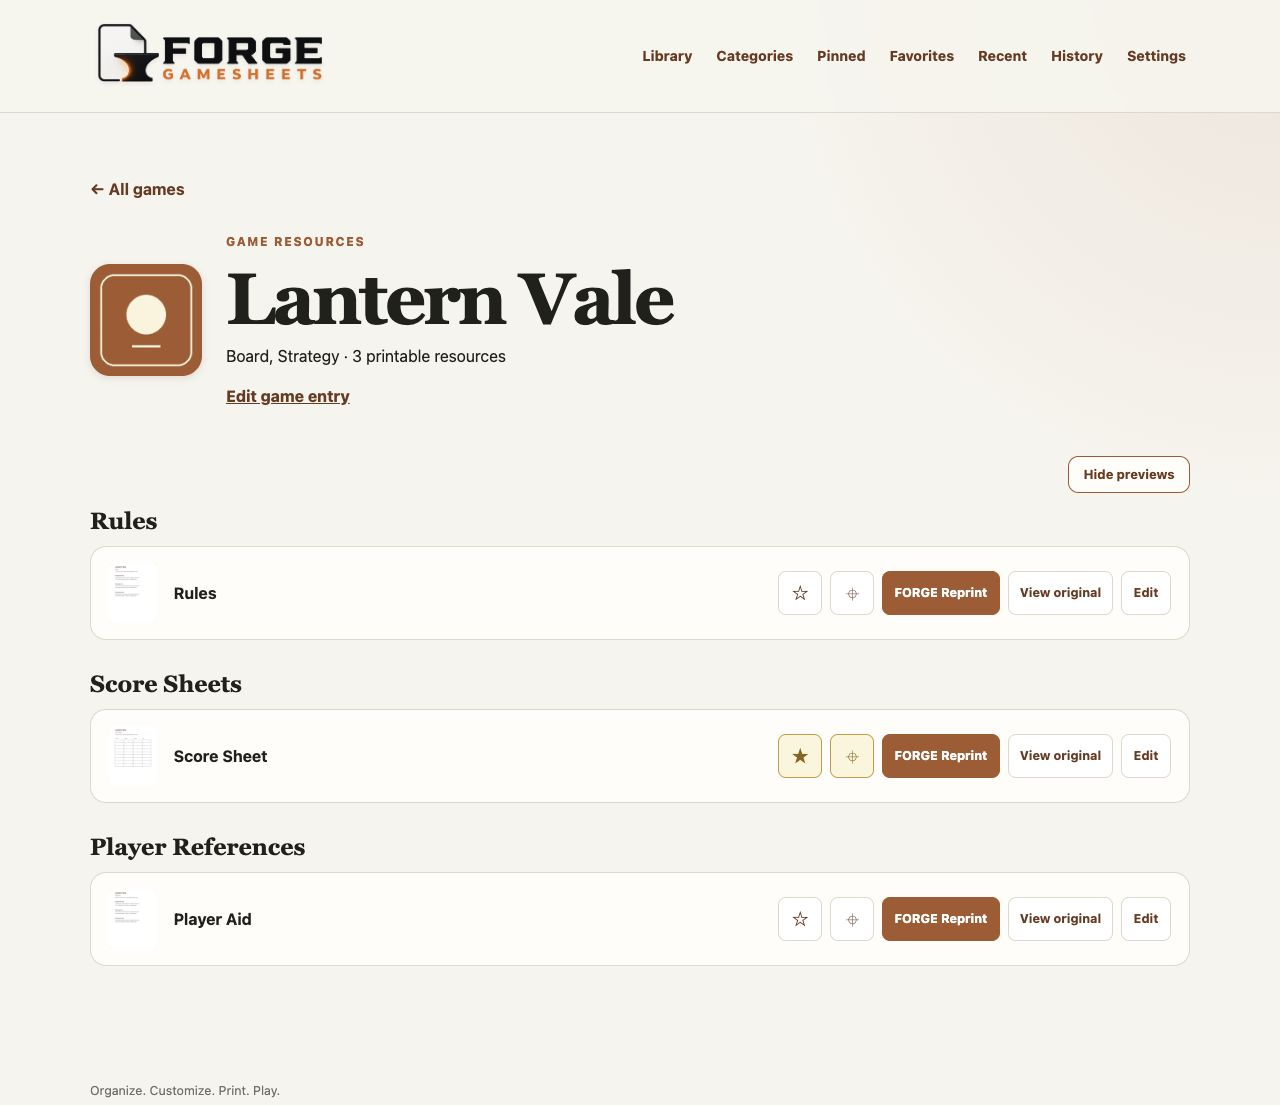
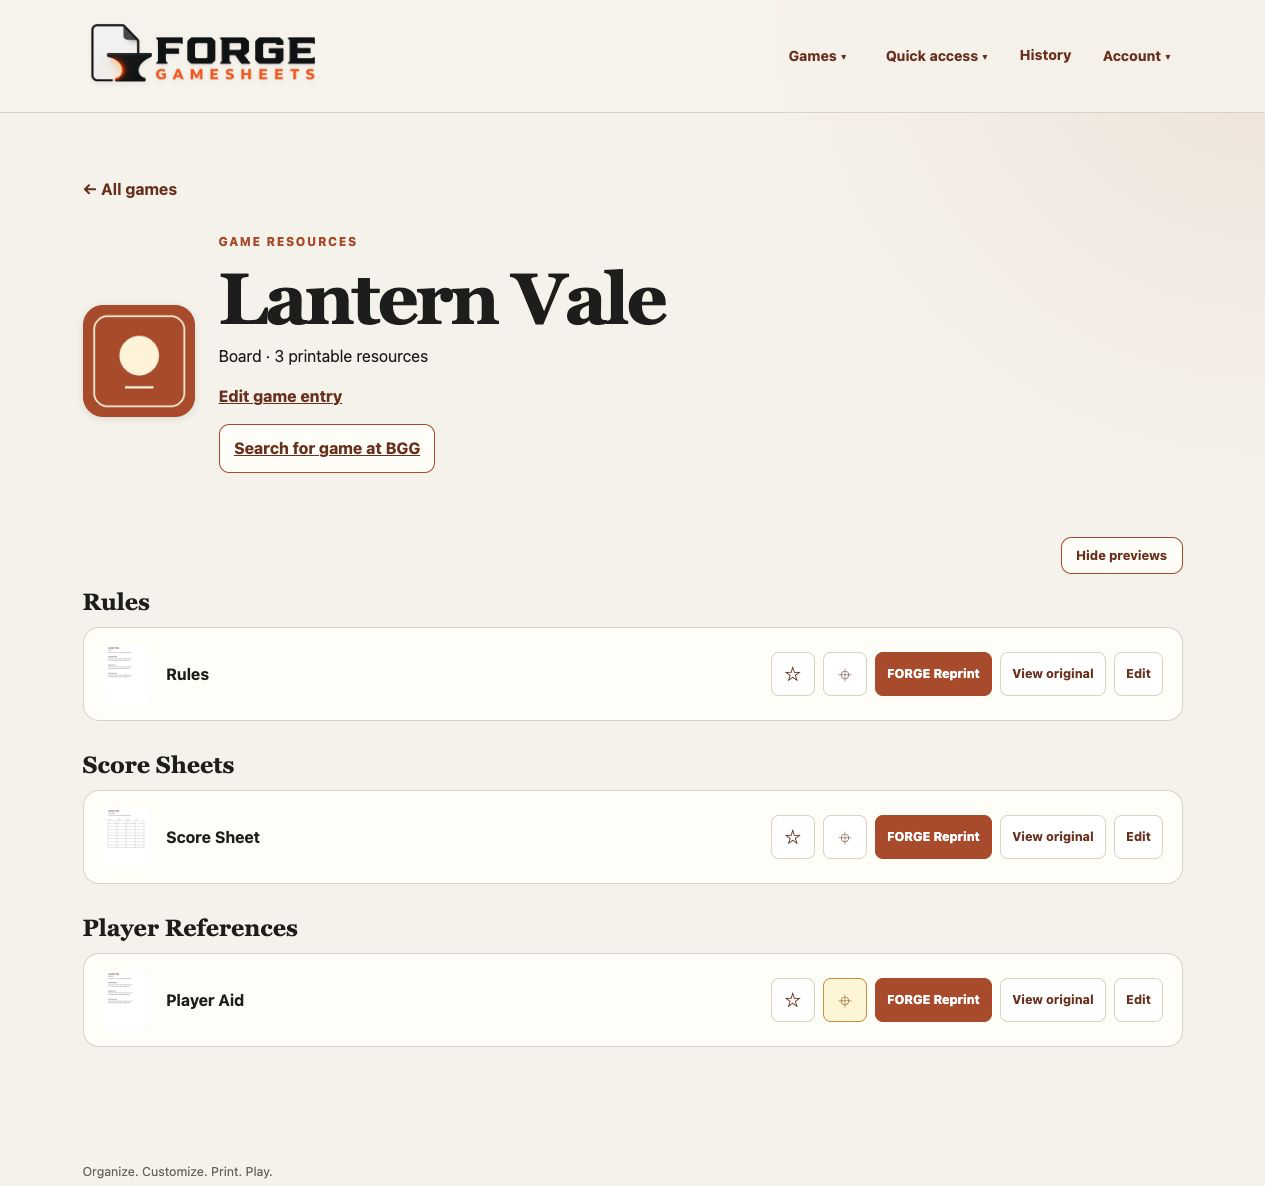
Refresh README screenshots and document category import setup
Replace outdated gallery images and add current bulk category, account and QR access, manual BGG, and grouped navigation views using synthetic demo content. Explain optional folder-category hints in Quick start, including default-off behavior and existing-game handling. Document screenshot capture and review procedures and add checks for gallery coverage and valid PNG assets.

diff --git a/tests/test_documentation.py b/tests/test_documentation.py
@@ -4,6 +4,8 @@ import re
 from pathlib import Path
 from urllib.parse import unquote, urlsplit
 
+from PIL import Image
+
 ROOT = Path(__file__).resolve().parents[1]
 
 
@@ -42,3 +44,32 @@ def test_readme_current_capability_contract():
 def test_documentation_review_is_release_requirement():
     for filename in ("PROJECT_PLAN.md", "docs/PHASE1_5_RELEASE_CHECKLIST.md"):
         assert "DOCUMENTATION_REVIEW.md" in (ROOT / filename).read_text()
+
+
+def test_quick_start_explains_optional_category_import():
+    quick_start = (ROOT / "README.md").read_text().split("## Quick start", 1)[1]
+    quick_start = quick_start.split("## Self-hosted beta configuration", 1)[0]
+    for term in (
+        "Yahtzee [Dice, Children]",
+        "off by default",
+        "Library scanning",
+        "first startup",
+        "Preview categories from folder names",
+    ):
+        assert term in quick_start
+
+
+def test_readme_gallery_images_are_valid_and_cover_current_workflows():
+    text = (ROOT / "README.md").read_text()
+    gallery = text.split("## Screenshots", 1)[1].split("## Requirements", 1)[0]
+    images = set(re.findall(r"docs/images/[\w-]+\.png", gallery))
+    assert len(images) == 10
+    for name in ("users", "assign-categories", "bgg-manual", "desktop-navigation"):
+        assert f"docs/images/{name}.png" in images
+    for path in images:
+        with Image.open(ROOT / path) as image:
+            assert image.format == "PNG"
+            assert image.width >= 320 and image.height >= 300
+            image.verify()
+    assert "Screenshot refresh pending" not in gallery
+    assert "SCREENSHOTS.md" in gallery

diff --git a/docs/SCREENSHOTS.md b/docs/SCREENSHOTS.md
@@ -1,0 +1,76 @@
+# README screenshot maintenance
+
+## Current set
+
+Captured September 4, 2026 from application revision `14f76af`, with only pending
+documentation edits. The demo uses invented games (Lantern Vale, Pebble Parade,
+Pocket Orchard, Starship Signals), original sample PDFs and simple cover art,
+and disposable demo accounts. It has no BGG token or real game association.
+The build panel correctly says Development build: this was a local source run,
+not a published-container verification.
+
+The gallery contains library-overview, game-resources, assign-categories,
+forge-reprint, settings, users, bgg-manual, settings-build, desktop-navigation,
+and mobile-navigation PNGs in `docs/images/`. The account image focuses on roles
+and QR policy; it is not a screenshot of the entire long Users page.
+
+## Repeatable capture checklist
+
+1. Use a disposable demo directory outside the repository, with its own library
+   and database. Generate original sample PDFs/artwork; never copy a personal
+   library or use live account data. Start the current application on loopback
+   with explicit demo library/data paths. Do not load the deployment's `.env`.
+2. Bootstrap a disposable Admin and Reader in that demo only. Add a few category
+   assignments and pinned resources. Leave all passphrase fields empty in captures.
+3. Capture the gallery routes: `/`, `/games/{demo-id}`, `/assign-categories`,
+   `/r/{demo-resource-id}`, `/settings`, `/settings/users`, and
+   `/games/{demo-id}/edit`. Discover IDs from the demo; do not assume production IDs.
+4. On bulk categories, select games and a category to illustrate the controls;
+   no change need be applied. Generate an ordinary demo reprint to show its ready
+   state. Do not create or expose live guest-sharing links. Leave the BGG input
+   empty rather than pretending an invented game has a real BGG listing.
+5. Capture the Games dropdown at desktop width and the open hamburger menu at
+   390 × 844 for the phone view. Restore any temporary viewport override afterward.
+6. Inspect every saved PNG, not just the live browser. Check text, cropping,
+   responsive wrapping, loaded fonts/previews, empty password fields, and absence
+   of private paths, hostnames, tokens, or real account details. Section crops must
+   retain the full explanation and controls. Update captions to match actual content.
+7. Replace all affected images together with the README; run documentation tests,
+   the full suite, and lint. Review the rendered gallery before publication. Stop
+   the temporary server when finished. Do not commit demo databases or PDF files.
+
+## Browser tooling and sandbox limitations
+
+The working September 2026 route was the Codex in-app browser's documented
+`tab.screenshot({fullPage: true})` API, accessed through the CUA tool. Section
+captures used the documented `clip` option, followed by inspection of the saved
+file; changing clip width can change the captured layout, so preserve page width.
+Use the currently installed browser documentation, not a hard-coded plugin-version
+path or an old task's browser/tab IDs.
+
+Screenshot bytes were saved to a temporary PNG, then copied into `docs/images`
+through the authorized filesystem tool. The browser runtime did not inherit the
+repository write grant. No sandbox policy or browser internals were changed.
+The returned bytes were JPEG-encoded despite the chosen filename; convert them
+to actual PNG (for example with macOS `sips -s format png`) before copying the
+final assets. The documentation test checks file encoding as well as readability.
+
+Standalone Playwright Chromium failed to launch in this Mac agent sandbox with
+`bootstrap_check_in ... Permission denied (1100)`. Network/file grants alone did
+not resolve that process restriction. Do not retry it indefinitely, disable
+sandbox protections, or access private browser transports as a workaround.
+
+A future repository-owned Playwright capture job on an authorized local runner
+or GitHub Actions would reduce dependency on interactive tooling. That job is
+**not implemented** by this documentation refresh. Pin the browser/environment
+and use the same synthetic fixture if it is added; images still need human review.
+
+## Refresh verification — September 4, 2026
+
+- All ten saved gallery images inspected; desktop and phone navigation captured.
+- Local rendered README gallery reviewed with all ten images loading.
+- Documentation tests: 5 passed. Ruff and `git diff --check`: passed.
+- Full Mac suite: 586 passed, 1 failed. The existing scanner case-sensitivity
+  fixture cannot create distinct `Alpha` and `alpha` directories on this host.
+  No scanner code or test was changed as part of this refresh.
+- No live library used, no guest token exposed, and no commit or publication made.

diff --git a/README.md b/README.md
@@ -44,20 +44,25 @@ The approved scope and roadmap are in [PROJECT_PLAN.md](PROJECT_PLAN.md).
 
 ## Screenshots
 
-All screenshots use an invented demonstration library; no private or
-copyrighted game files are included.
-
-**Screenshot refresh pending:** these images show the earlier UI. Current builds
-include grouped navigation, optional accounts, bulk categories, and manual BGG
-links described below. Replace this gallery before the next publication.
+Screenshots refreshed September 4, 2026, using an invented demonstration library
+and demo accounts. No private library content or third-party game files are
+included. These views show authentication enabled; available controls depend on
+the signed-in role. Click an image to inspect it at full size.
 
 | Library and categories | Game resources |
 | --- | --- |
 | ![Forge GameSheets library showing pinned resources and category cards](docs/images/library-overview.png) | ![An invented game's rules, score sheets, references, and resource actions](docs/images/game-resources.png) |
-| **Settings** | **FORGE Reprint** |
-| ![Earlier Settings view with display preferences](docs/images/settings.png) | ![Earlier FORGE Reprint view](docs/images/forge-reprint.png) |
-| **Integration and build details** | **Mobile navigation** |
-| ![Earlier Settings view showing integration and build information](docs/images/settings-build.png) | ![Earlier ungrouped mobile navigation](docs/images/mobile-navigation.png) |
+| **Bulk game categories** | **FORGE Reprint** |
+| ![Selected demo games and categories with bulk operations and explanatory help](docs/images/assign-categories.png) | ![Generated demo reprint ready to view or download, with QR access guidance](docs/images/forge-reprint.png) |
+| **Settings and folder-category import** | **Accounts and QR access** |
+| ![Settings showing optional folder-category import and enabled authentication](docs/images/settings.png) | ![Admin access controls explaining roles and the QR guest policy](docs/images/users.png) |
+| **Manual BoardGameGeek linking** | **Integration and build details** |
+| ![Token-free BGG search button and empty full-game-URL field](docs/images/bgg-manual.png) | ![Settings showing the optional API disabled and a local development build](docs/images/settings-build.png) |
+| **Grouped desktop navigation** | **Mobile navigation** |
+| ![Games dropdown with All games, Categories, and Assign game categories](docs/images/desktop-navigation.png) | <img src="docs/images/mobile-navigation.png" alt="Phone menu with Games, Quick access, History, and Account groups including admin-only Users" width="200"> |
+
+The [screenshot maintenance guide](docs/SCREENSHOTS.md) records the capture
+procedure and review requirements.
 
 ## Requirements
 
@@ -109,6 +114,12 @@ this through file sharing.
    extension in the game folder. You can also upload artwork later through
    **Edit game entry**. No game PDFs or artwork are bundled with FORGE.
 
+   Optional category hints go at the end of the **game folder name**:
+   `Yahtzee [Dice]`, `Yahtzee [Dice, Children]`, or
+   `Yahtzee (Family Favorite) [Dice, Children]`. Commas separate categories;
+   parentheses remain part of the game title. Missing categories are created
+   when hints are applied. PDF filenames do not need the category suffix.
+
 2. Pull the prebuilt image from GitHub Container Registry and start it:
 
    ```sh
@@ -118,6 +129,18 @@ this through file sharing.
 
 3. Open <http://localhost:8000> on that host. For another device on your trusted
    LAN, configure the bind address and host URL as described below.
+
+   Category import is **off by default**. To use hints for future imports, enable
+   **Settings → Library scanning → Import game categories from folder names**
+   before adding new game folders, then select **Rescan library**. With accounts
+   enabled, this setting requires an Admin.
+
+   Games already discovered on the first startup are not retroactively changed
+   by enabling the setting. Use **Games → Assign game categories**, check
+   **Preview categories from folder names**, select **Show games**, then select
+   the games and apply the folder hints after reviewing the confirmation.
+   This adds categories without changing existing titles or removing manual
+   assignments. See [game category guidance](docs/GAME_CATEGORIES.md).
 
 4. Stop the application when needed with `docker compose down`.
 

diff --git a/docs/DOCUMENTATION_REVIEW.md b/docs/DOCUMENTATION_REVIEW.md
@@ -17,6 +17,8 @@ For every major update (including significant beta milestones), review:
 - Deployment HTTPS/proxy boundaries, data permissions, backup/restore, and build identity.
 - Screenshots at desktop and mobile sizes using invented content only. Never
   capture real accounts, library PDFs, credentials, or live guest-share tokens.
+  Follow [the screenshot maintenance checklist](SCREENSHOTS.md), inspect the saved
+  files, and refresh affected images together with their README captions.
 - Consistency among README, deployment/accounts/category/BGG guides, current
   release notes, and the project plan. Historical release documents should be
   explicitly identified as historical instead of silently rewritten as current.
